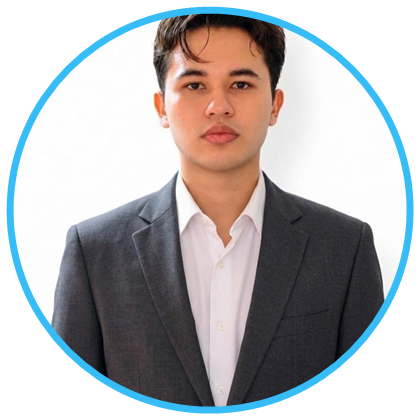
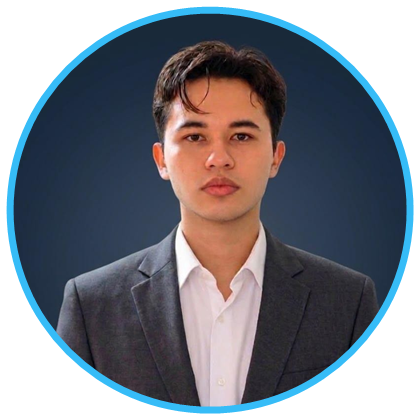
Nueva foto de perfil y titulos de proyectos y contacto mas pequenos

diff --git a/README.md b/README.md
@@ -36,13 +36,13 @@
 
 </div>
 
-## Proyectos destacados
+### Proyectos destacados
 
 <!-- PROYECTOS:INICIO -->
 > Aún no hay proyectos públicos. En cuanto publiques el primero, aparecerá aquí automáticamente.
 <!-- PROYECTOS:FIN -->
 
-## Contacto
+### Contacto
 
 <div align="center">
 
